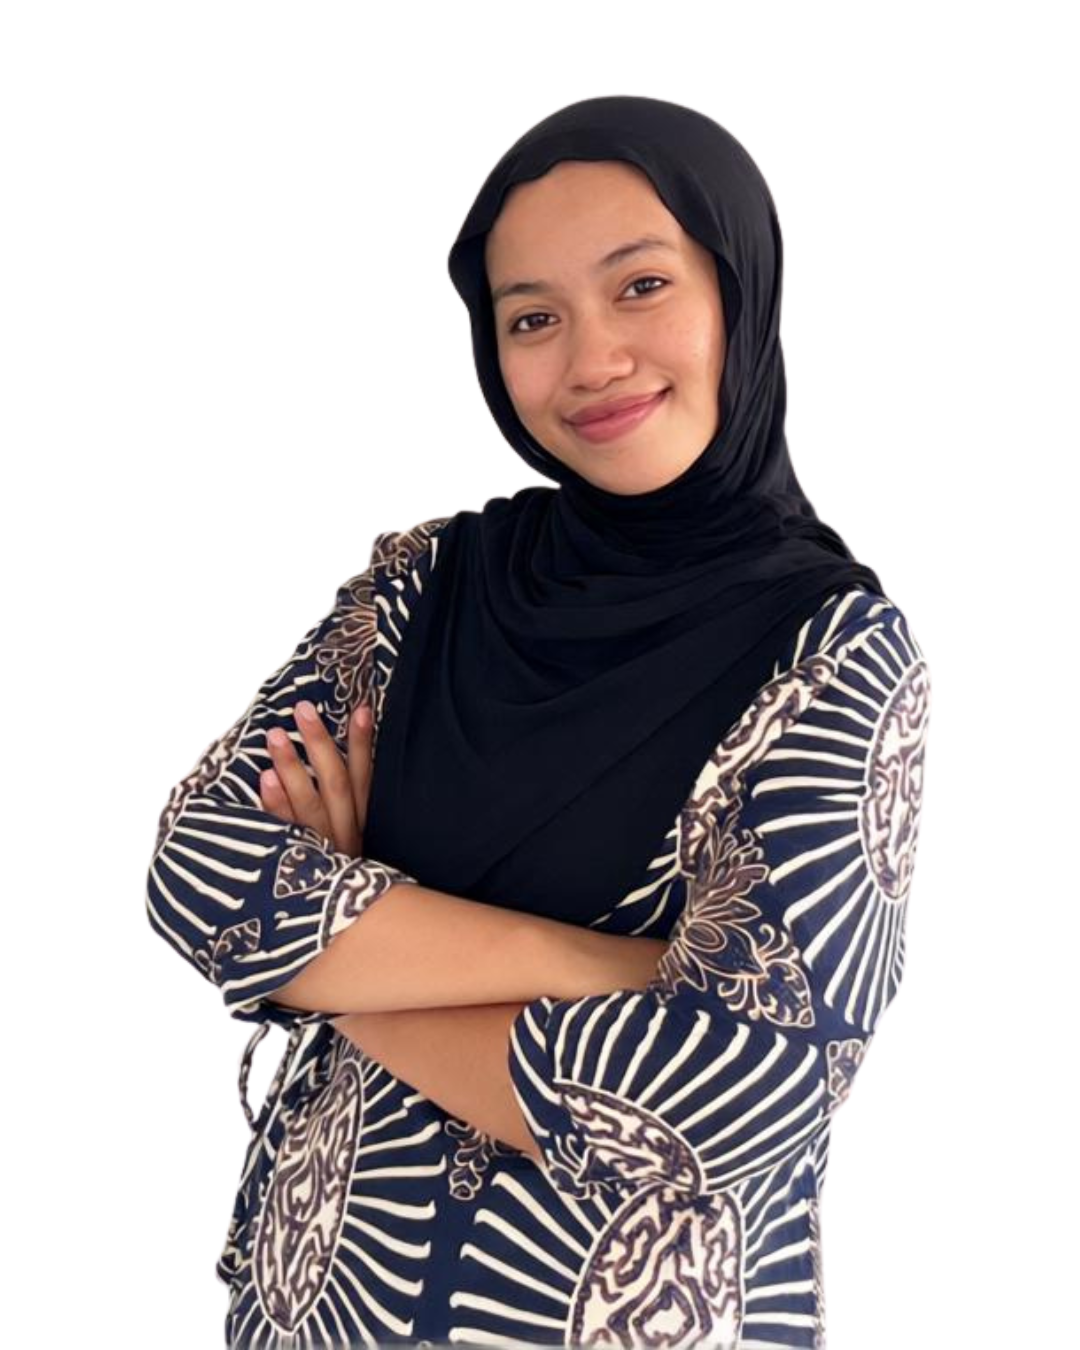
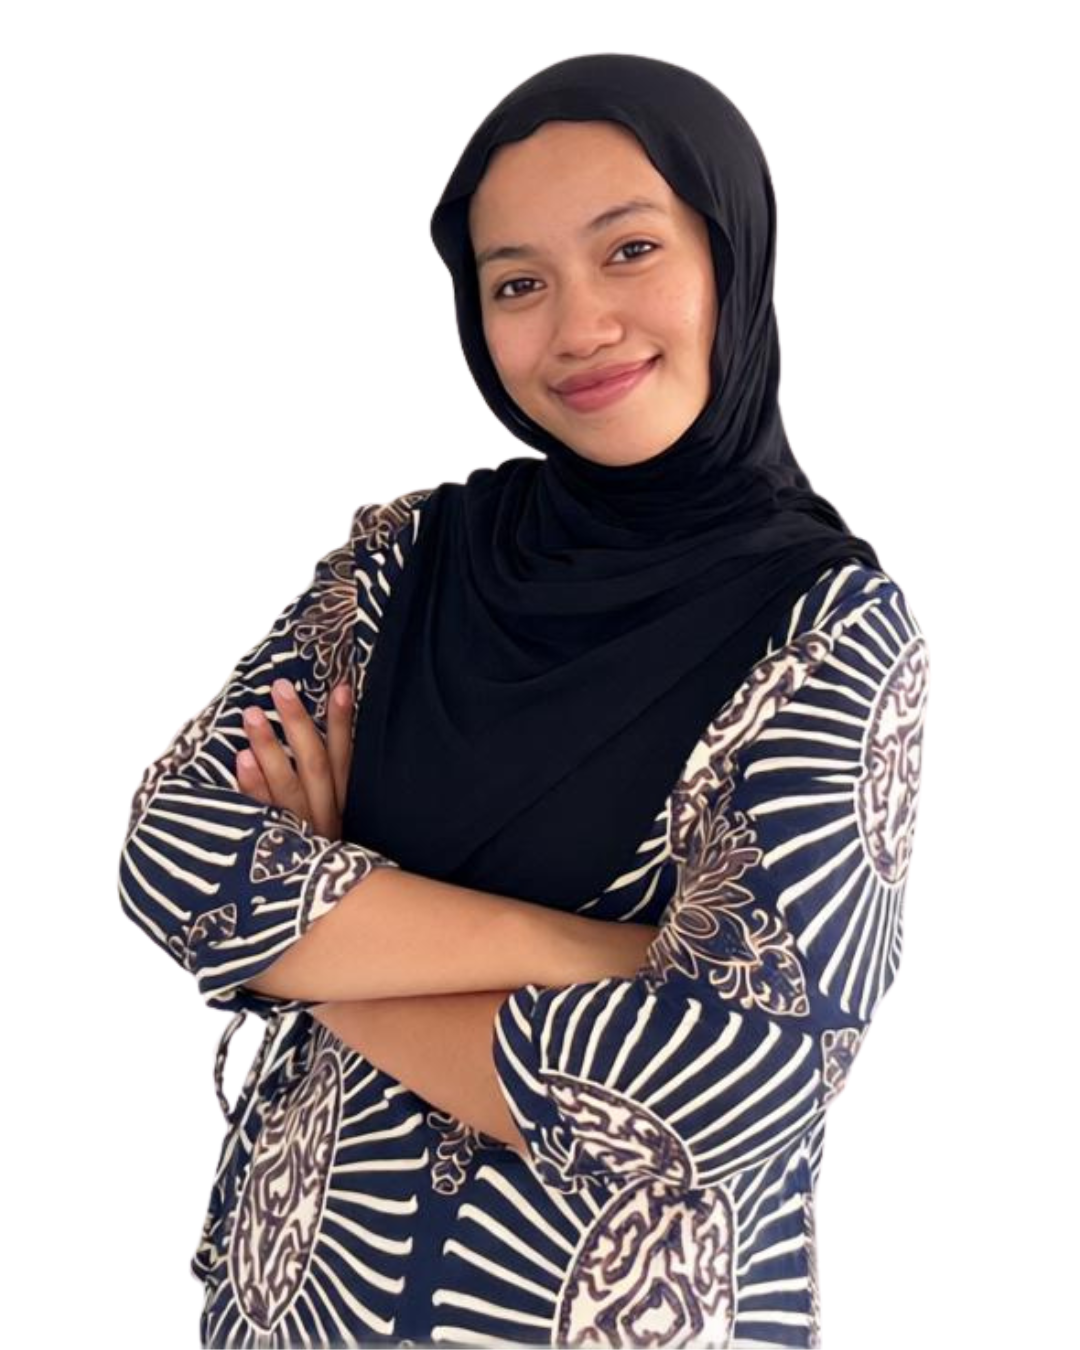
update: foto kru15, kru31, kru33 baru + hapus kata maritim di pencapaian Juliana

Changed region(s): [[0.0917, 0.0311, 0.8556, 1.0]]

diff --git a/js/book-config.js b/js/book-config.js
@@ -946,7 +946,7 @@ const BOOK_CONFIG = {
       "bounty": "240,000,000",
       "quote": "Different dreams, one unforgettable journey.",
       "memorable": "Senang bisa ketemu sama teman-teman, Empat bulan bersama Batch 18 ternyata bukan cuma tentang magang, tapi juga tentang banyak cerita, tawa, capek, kekacauan kecil, dan momen-momen sederhana yang akhirnya jadi kenangan. Awalnya kita semuanya datang dengan tujuan masing-masing, tapi perlahan bisa saling mengenal, bekerja sama, dan tumbuh bersama. Terima kasih sudah membuat perjalanan di Rumah BUMN jadi jauh lebih seru dan berkesan.",
-      "achievement": "Mengarahkan identitas visual yearbook, kurasi dokumentasi, dan materi publikasi maritim batch 18",
+      "achievement": "Mengarahkan identitas visual yearbook, kurasi dokumentasi, dan materi publikasi batch 18",
       "messageBatch": "pesan saya setelah kapal Nawala berlabuh, semoga kita semua bisa melanjutkan perjalanan ke tujuan masing-masing tanpa melupakan orang-orang yang pernah satu kapal. Tetap semangat, terus berkembang, jangan takut mencoba hal baru, dan yang paling penting jangan sampai jadi asing. Kalau nanti sudah sukses dengan jalan masing-masing, jangan lupa saling kabar dan sempatkan untuk bertemu lagi. luvv nawala",
       "oneWord": "Memori"
     },
